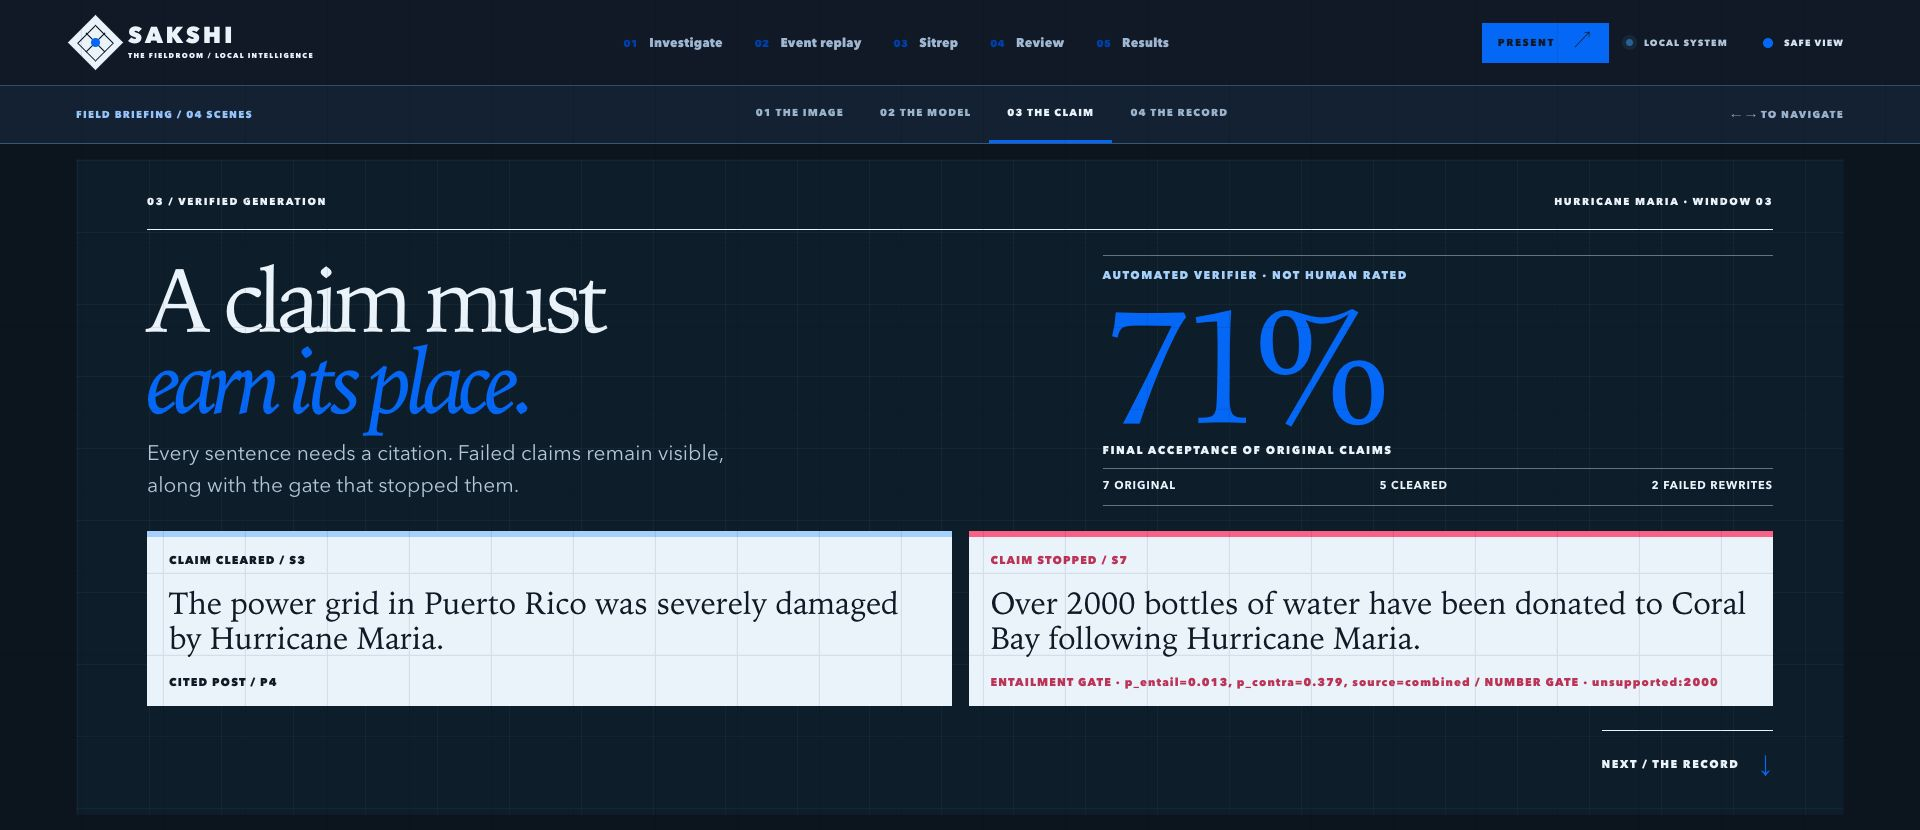
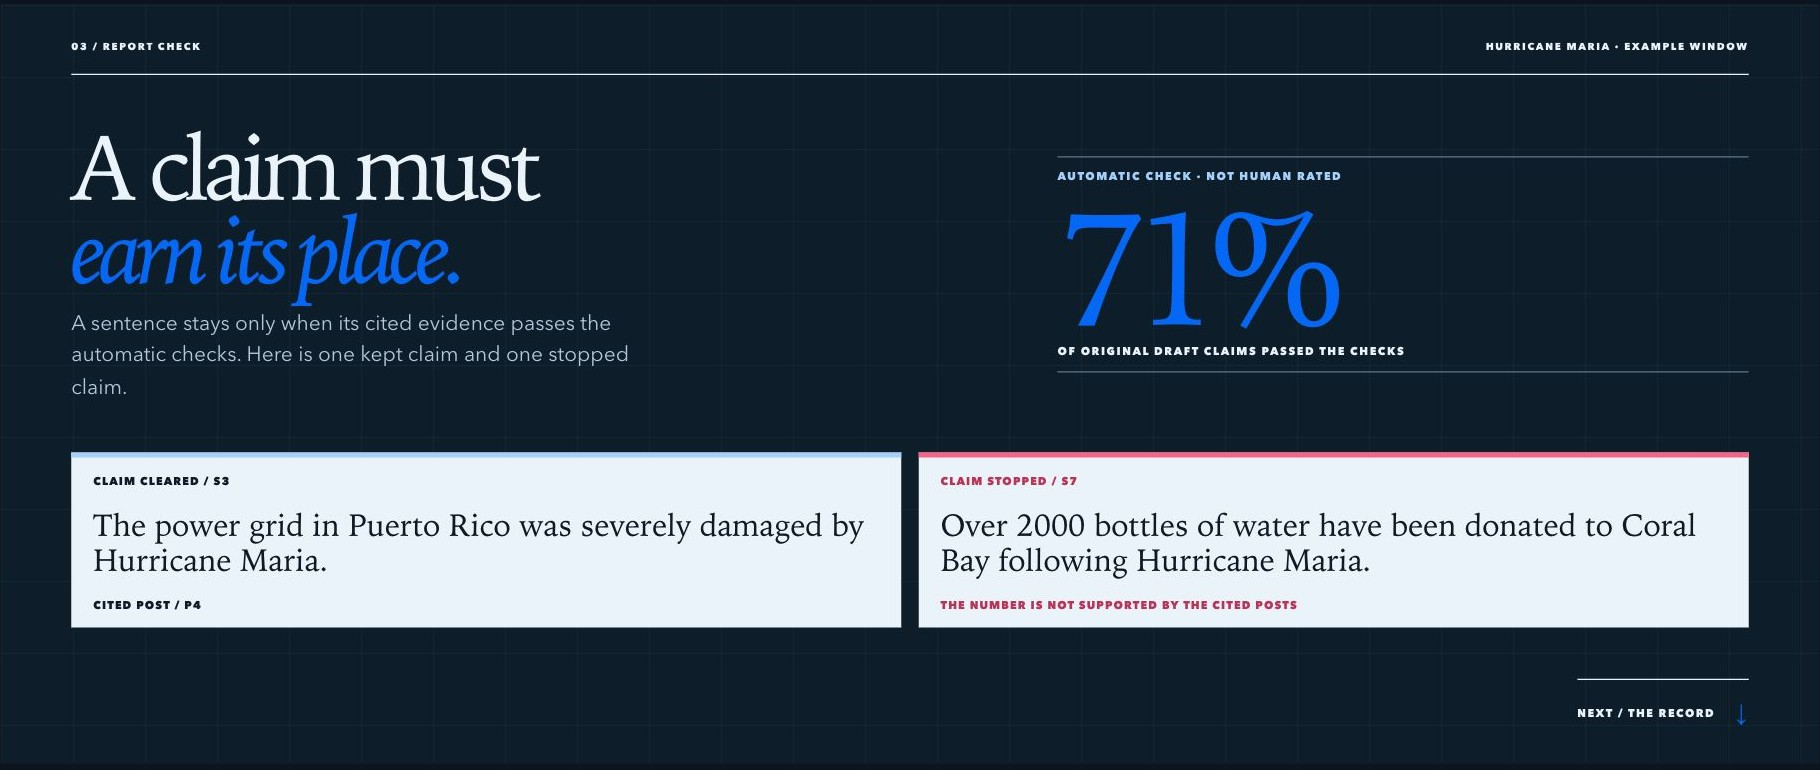
Simplify minor project demo flow

diff --git a/src/sakshi/app/web/app.js b/src/sakshi/app/web/app.js
@@ -142,17 +142,18 @@ function changePage(page) {
 
 function briefingModelHtml(result) {
   if (!result)
-    return '<div class="briefing-model-await"><span>LIVE INFERENCE / LOCAL CPU</span><strong>Four decisions await the case.</strong><p>Run the pinned Maria post through the trained model. Its decisions and any abstention appear here.</p></div>';
+    return '<div class="briefing-model-await"><span>READY TO RUN / ON THIS LAPTOP</span><strong>One post. Four decisions.</strong><p>Run the prepared case to see what the model returns and whether it asks for human review.</p></div>';
   const decisions = result.heads.map((head, i) => {
     const label = head.status === "predicted" ? head.label || "Undecided" :
-      head.status === "gated" ? "Gated" : "Not applicable";
+      head.status === "gated" ? "Skipped" : "Not applicable";
     return '<div class="briefing-model-tile"><small>0' + (i + 1) + ' / ' + esc(head.name) +
       '</small><strong>' + esc(label) + '</strong><span>' +
-      (head.status === "predicted" ? pct(head.probability) + " CALIBRATED" : "NO SCORE") +
+      (head.status === "predicted" ? pct(head.probability) + " MODEL CONFIDENCE" :
+        head.status === "gated" ? "DEPENDS ON FIRST DECISION" : "NO SCORE") +
       '</span></div>';
   }).join("");
   return '<div class="briefing-model-status ' + (result.abstain ? "is-abstained" : "") +
-    '"><span>' + (result.abstain ? "ABSTAINED / HUMAN REVIEW" : "CLASSIFICATION RETURNED") +
+    '"><span>' + (result.abstain ? "MODEL ABSTAINED · HUMAN REVIEW" : "MODEL RESULT") +
     '</span><strong>' + esc(result.abstain ?
       reviewReason(result.abstain_reason) :
       result.model) +
@@ -169,9 +170,6 @@ function briefingHtml(caseData, sitrep) {
   const accepted = sentences.find((s) => s.accepted && s.id === "S3") || sentences.find((s) => s.accepted);
   const rejected = sentences.find((s) => !s.accepted && s.failed_gates?.some((g) => g.name === "number")) ||
     sentences.find((s) => !s.accepted);
-  const originalCount = sentences.filter((s) => Number(s.round) === 0).length;
-  const acceptedCount = sentences.filter((s) => s.accepted).length;
-  const failedRewrites = sentences.filter((s) => !s.accepted && Number(s.round) > 0).length;
   const metrics = state.bootstrap.headline_metrics || [];
   const metricBars = metrics.map((metric, i) => {
     const value = Number(metric.value);
@@ -196,29 +194,29 @@ function briefingHtml(caseData, sitrep) {
     '<div class="briefing-eyebrow"><span>CASE FILE / 01</span><span>SYSTEM FLAG · REVIEW PENDING</span></div>' +
     '<div><h1>One image.<br><em>Two events.</em></h1><p>The same flood photograph appears in a Maria post and an earlier indexed Irma record. The system flags reuse; a reviewer decides what the match means.</p></div>' +
     '<div class="briefing-cover-foot"><div><strong>07</strong><span>DAYS BETWEEN<br>INDEXED APPEARANCES</span></div><button type="button" data-briefing-step="1">FOLLOW THE EVIDENCE <b>↓</b></button></div></div>' +
-    '<div class="briefing-cover-visual"><div class="briefing-visual-top"><span>FROZEN REPLAY / FACE-BLURRED</span><span>PHASH DISTANCE ' +
-    (hasCase ? esc(caseData.phash_distance) : '—') + ' / 64</span></div>' + photos +
-    '<div class="briefing-visual-bottom">EARLIER INDEXED APPEARANCE ≠ VERIFIED ORIGIN</div></div></section>' +
-    '<section class="briefing-scene briefing-model" id="briefing-scene-1"><div class="briefing-section-head"><span>02 / LIVE MODEL</span><span>FOUR TASK HEADS · HUMAN REVIEW</span></div>' +
-    '<div class="briefing-model-layout"><div class="briefing-model-copy"><h2>What does<br>the model <em>know?</em></h2><p>A classifier can help triage a post while remaining uncertain. Run this exact case through the local model and inspect every head.</p>' +
+    '<div class="briefing-cover-visual"><div class="briefing-visual-top"><span>PREPARED CASE / FACE-BLURRED</span><span>EARLIER IMAGE MATCH FOUND</span></div>' + photos +
+    '<div class="briefing-visual-bottom">EARLIER MATCH FOUND · ORIGIN NEEDS REVIEW</div></div></section>' +
+    '<section class="briefing-scene briefing-model" id="briefing-scene-1"><div class="briefing-section-head"><span>02 / LIVE MODEL</span><span>FOUR DECISIONS · HUMAN REVIEW</span></div>' +
+    '<div class="briefing-model-layout"><div class="briefing-model-copy"><h2>What does<br>the model <em>see?</em></h2><p>Run this post once. The model returns four decisions and flags uncertain ones for a person to review.</p>' +
     '<button type="button" id="briefing-run" class="briefing-run" ' + (hasCase ? '' : 'disabled') + '>RUN THIS CASE LIVE <span>↗</span></button>' +
     '<small>THE FIRST RUN LOADS CACHED MODEL WEIGHTS.</small></div><div id="briefing-model-output">' +
     briefingModelHtml(state.briefingAnalysis) + '</div></div><button class="briefing-next" type="button" data-briefing-step="2">NEXT / THE CLAIM <span>↓</span></button></section>' +
-    '<section class="briefing-scene briefing-claim" id="briefing-scene-2"><div class="briefing-section-head"><span>03 / VERIFIED GENERATION</span><span>HURRICANE MARIA · WINDOW 03</span></div>' +
-    '<div class="briefing-claim-top"><div><h2>A claim must<br><em>earn its place.</em></h2><p>Every sentence needs a citation. Failed claims remain visible, along with the gate that stopped them.</p></div>' +
-    '<div class="briefing-verdict"><span>AUTOMATED VERIFIER · NOT HUMAN RATED</span><strong>' +
-    (sitrep?.available ? pct(sitrep.rates.final) : '—') + '</strong><small>FINAL ACCEPTANCE OF ORIGINAL CLAIMS</small><div><b>' +
-    originalCount + ' ORIGINAL</b><b>' + acceptedCount + ' CLEARED</b><b>' + failedRewrites + ' FAILED REWRITES</b></div></div></div>' +
+    '<section class="briefing-scene briefing-claim" id="briefing-scene-2"><div class="briefing-section-head"><span>03 / REPORT CHECK</span><span>HURRICANE MARIA · EXAMPLE WINDOW</span></div>' +
+    '<div class="briefing-claim-top"><div><h2>A claim must<br><em>earn its place.</em></h2><p>A sentence stays only when its cited evidence passes the automatic checks. Here is one kept claim and one stopped claim.</p></div>' +
+    '<div class="briefing-verdict"><span>AUTOMATIC CHECK · NOT HUMAN RATED</span><strong>' +
+    (sitrep?.available ? pct(sitrep.rates.final) : '—') + '</strong><small>OF ORIGINAL DRAFT CLAIMS PASSED THE CHECKS</small></div></div>' +
     '<div class="briefing-claim-pair"><article><span>CLAIM CLEARED / ' + esc(accepted?.id || '—') +
     '</span><p>' + esc(accepted?.text || 'No accepted claim in this window.') + '</p><small>CITED POST / ' +
     esc((accepted?.citations || []).join(', ') || 'NONE') + '</small></article><article class="stopped"><span>CLAIM STOPPED / ' +
     esc(rejected?.id || '—') + '</span><p>' + esc(rejected?.text || 'No rejected claim in this window.') +
-    '</p><small>' + esc((rejected?.failed_gates || []).map((g) => g.name.toUpperCase() + ' GATE · ' + g.detail).join(' / ') || 'VERIFICATION FAILED') +
+    '</p><small>' + esc(rejected?.failed_gates?.some((g) => g.name === 'number')
+      ? 'THE NUMBER IS NOT SUPPORTED BY THE CITED POSTS'
+      : 'THE AUTOMATIC CHECKS DID NOT SUPPORT THIS CLAIM') +
     '</small></article></div><button class="briefing-next" type="button" data-briefing-step="3">NEXT / THE RECORD <span>↓</span></button></section>' +
-    '<section class="briefing-scene briefing-record" id="briefing-scene-3"><div class="briefing-section-head"><span>04 / FROZEN EVALUATION</span><span>OFFICIAL TEST · THREE SEEDS</span></div>' +
-    '<div class="briefing-record-layout"><div><h2>The weak head<br>stays <em>visible.</em></h2><p>Mean macro-F1 across three frozen standard seeds. Each task has its own official test selector. Severity remains the hardest head.</p>' +
+    '<section class="briefing-scene briefing-record" id="briefing-scene-3"><div class="briefing-section-head"><span>04 / TEST RESULTS</span><span>OFFICIAL TEST · THREE RUNS</span></div>' +
+    '<div class="briefing-record-layout"><div><h2>Where it<br><em>struggles.</em></h2><p>The model performs differently across tasks. Damage severity is its weakest result on the official test sets.</p>' +
     '<a href="#results" class="briefing-record-link">OPEN THE FULL RESEARCH RECORD <span>↗</span></a></div><div class="briefing-scores">' + metricBars +
-    '<small>0.0 <span>MEAN MACRO-F1 / NOT A HUMAN STUDY</span> 1.0</small></div></div>' +
+    '<small>0.0 <span>OFFICIAL TEST SCORE · HIGHER IS BETTER</span> 1.0</small></div></div>' +
     '<div class="briefing-exit"><span>THE EVIDENCE IS OPEN TO INSPECTION.</span><div><a href="#classify">INVESTIGATE ↗</a><a href="#replay">EVENT REPLAY ↗</a><a href="#sitrep">SITREP ↗</a><a href="#review">REVIEW ↗</a></div></div></section></div>';
 }
 
@@ -463,9 +461,9 @@ function classifyOutput(result) {
     title("What moved the decision", "XAI / ON DEMAND") +
     '<div class="notice xai-control"><div><span class="micro micro-orange">MODEL EXPLANATION</span>' +
     (result.image
-      ? '<h3>Four questions. One image.</h3><p>Reveal two decisions to compare where each class looked. Maps are computed only when requested.</p>'
-      : '<h3>Trace the words.</h3><p>Choose a decision to reveal signed word attribution for this text-only post.</p>') +
-    '</div><div class="xai-control-actions"><label for="explain-head">DECISION TO EXPLAIN</label><select id="explain-head" class="select">' +
+      ? '<h3>What influenced each answer?</h3><p>Choose one decision and show its evidence. Choose another to compare them.</p>'
+      : '<h3>Which words influenced this answer?</h3><p>Choose a decision to see which words supported or opposed it.</p>') +
+    '</div><div class="xai-control-actions"><label for="explain-head">WHICH DECISION?</label><select id="explain-head" class="select">' +
     result.heads
       .filter((h) => h.status === "predicted")
       .map(
@@ -473,7 +471,7 @@ function classifyOutput(result) {
           '<option value="' + esc(h.key) + '">' + esc(h.name) + "</option>",
       )
       .join("") +
-    '</select><button id="explain-button" class="button">REVEAL EVIDENCE →</button></div></div><div id="explain-output" aria-live="polite"></div>'
+    '</select><button id="explain-button" class="button">SHOW EVIDENCE →</button></div></div><div id="explain-output" aria-live="polite"></div>'
   );
 }
 
@@ -485,8 +483,8 @@ function explanationOutput(result, headKey, classification) {
   const hasImage = Boolean(result.heatmap);
   const imageHead = headKey === "severity" || headKey === "disaster_type";
   const wordNote = imageHead
-    ? "This task uses the image branch, so no word attribution is computed."
-    : "This input contains no text to attribute.";
+    ? "This decision uses the photo, so there are no word highlights."
+    : "This post has no text, so there are no word highlights.";
   const max = Math.max(0.001, ...result.words.map((word) => Math.abs(word.score)));
   const words = result.words.map((word) => {
     const strength = Math.min(0.46, 0.08 + 0.38 * Math.abs(word.score) / max).toFixed(3);
@@ -494,44 +492,48 @@ function explanationOutput(result, headKey, classification) {
     return '<span class="xai-word" style="background:rgba(' + color + ',' + strength +
       ')" title="Signed attribution: ' + esc(Number(word.score).toFixed(3)) + '">' +
       esc(word.text) + '</span>';
-  }).join("");
-  const header = '<div class="xai-result-head"><span>DECISION UNDER INSPECTION / ' + esc(name) +
+  }).join(" ");
+  const header = '<div class="xai-result-head"><span>SELECTED DECISION / ' + esc(name) +
     '</span><strong>' + esc(head?.label || "No label returned") +
     '</strong><div class="xai-verdict"><b>' + pct(head?.probability) +
-    '</b><small>CALIBRATED CONFIDENCE</small><p>Attributions relate to this predicted class. They do not verify the post.</p></div></div>';
-  const wordPanel = '<div class="xai-words"><div class="xai-panel-label">INTEGRATED GRADIENTS / WORD ATTRIBUTION</div>' +
-    '<div class="xai-word-flow">' + words + '</div><div class="xai-legend"><span><i></i> TOWARD THE LABEL</span>' +
-    '<span><i></i> AWAY FROM THE LABEL</span><span>' + esc(result.steps || "—") + ' STEPS</span></div></div>';
+    '</b><small>MODEL CONFIDENCE</small><p>This explains the model’s answer. It does not prove the post is true.</p></div></div>';
+  const wordPanel = '<div class="xai-words"><div class="xai-panel-label">WORDS THAT INFLUENCED THIS ANSWER</div>' +
+    '<div class="xai-word-flow">' + words + '</div><div class="xai-legend"><span><i></i> SUPPORTS THE ANSWER</span>' +
+    '<span><i></i> OPPOSES THE ANSWER</span></div></div>';
   const original = classification.image ? '<figure><img src="' + esc(classification.image) +
-    '" alt="Original analyzed image"><figcaption>01 / ANALYZED IMAGE</figcaption></figure>' : "";
+    '" alt="Original analyzed image"><figcaption>01 / ORIGINAL PHOTO</figcaption></figure>' : "";
   const overlay = '<figure><img src="' + esc(result.heatmap) +
-    '" alt="Grad-CAM heatmap over the analyzed image"><figcaption>02 / GRAD-CAM FOCUS</figcaption></figure>';
-  const visualPanel = '<div class="xai-visual"><div class="xai-panel-label">GRAD-CAM / IMAGE FOCUS</div>' +
+    '" alt="Grad-CAM heatmap over the analyzed image"><figcaption>02 / HIGHLIGHTED VIEW</figcaption></figure>';
+  const visualPanel = '<div class="xai-visual"><div class="xai-panel-label">WHERE THE MODEL FOCUSED</div>' +
     '<div class="xai-image-pair">' + original + overlay + '</div>' +
-    '<p>Warmer areas carry more Grad-CAM weight within this map. It covers the model’s center crop.</p></div>';
+    '<p>Warm colors mark regions with stronger model attribution for this answer.</p></div>';
+  const method = '<details class="xai-method"><summary>How this evidence was calculated</summary><p>' +
+    (hasWords ? 'Word colors are signed Integrated Gradients for the predicted class (' + esc(result.steps || "—") + ' steps). ' : '') +
+    (hasImage ? 'The image overlay is Grad-CAM from the model’s 14×14 visual patch grid, projected onto its center crop. ' : '') +
+    'The percentage is calibrated model confidence. These explanations do not establish factual accuracy.</p></details>';
   if (hasWords && hasImage)
     return '<section class="xai-result">' + header + '<div class="xai-both">' + wordPanel +
-      visualPanel + '</div></section>';
+      visualPanel + '</div>' + method + '</section>';
   if (hasImage)
     return '<section class="xai-result">' + header + '<p class="xai-scope">' + esc(wordNote) +
-      '</p>' + visualPanel + '</section>';
+      '</p>' + visualPanel + method + '</section>';
   if (hasWords)
-    return '<section class="xai-result">' + header + wordPanel + '</section>';
+    return '<section class="xai-result">' + header + wordPanel + method + '</section>';
   return '<section class="xai-result">' + header + '<p class="xai-scope">No attribution is available for this decision.</p></section>';
 }
 
 function explanationComparison(explanations, selectedHead, classification) {
   const revealed = classification.heads.filter((head) => explanations[head.key]?.heatmap);
   if (revealed.length < 2) return "";
-  return '<section class="xai-comparison"><div class="xai-comparison-head"><div><span class="micro micro-orange">SAME POST / SEPARATE CLASS TARGETS</span>' +
-    '<h3>Compare the focus maps.</h3></div><p>Each map is normalized separately. Compare where it lights up, not color intensity across cards.</p></div>' +
+  return '<section class="xai-comparison"><div class="xai-comparison-head"><div><span class="micro micro-orange">ONE PHOTO / DIFFERENT DECISIONS</span>' +
+    '<h3>Same photo. Different focus.</h3></div><p>Compare the highlighted places. Some overlap is expected; color brightness is relative within each map.</p></div>' +
     '<div class="xai-comparison-grid">' + revealed.map((head) =>
       '<button type="button" class="xai-comparison-card' + (head.key === selectedHead ? ' active' : '') +
       '" data-xai-head="' + esc(head.key) + '" aria-label="View ' + esc(head.name) + ' explanation">' +
       '<span class="xai-comparison-meta"><span>' + esc(head.name) + '</span><b>' + pct(head.probability) + '</b></span>' +
       '<strong>' + esc(head.label || "No label returned") + '</strong><img src="' +
       esc(explanations[head.key].heatmap) + '" alt="Grad-CAM for ' + esc(head.name) + '">' +
-      '<small>VIEW THIS DECISION ↗</small></button>').join("") + '</div></section>';
+      '<small>OPEN THIS ANSWER ↗</small></button>').join("") + '</div></section>';
 }
 
 function bindClassify() {
@@ -612,7 +614,7 @@ function bindExplanation() {
     output.innerHTML = explanationComparison(state.explanations, head, state.classify) + (state.explanations[head]
       ? explanationOutput(state.explanations[head], head, state.classify)
       : "");
-    button.textContent = state.explanations[head] ? "EVIDENCE REVEALED ✓" : "REVEAL EVIDENCE →";
+    button.textContent = state.explanations[head] ? "EVIDENCE SHOWN ✓" : "SHOW EVIDENCE →";
   };
   selector.addEventListener("change", render);
   output.addEventListener("click", (event) => {
@@ -628,7 +630,7 @@ function bindExplanation() {
       return;
     }
     button.disabled = true;
-    button.textContent = "TRACING MODEL EVIDENCE…";
+    button.textContent = "READING MODEL EVIDENCE…";
     try {
       const token = state.classify.token;
       const explanation = await post("/api/explain", {
@@ -643,7 +645,7 @@ function bindExplanation() {
       notify(error.message);
     } finally {
       button.disabled = false;
-      button.textContent = state.explanations[selector.value] ? "EVIDENCE REVEALED ✓" : "REVEAL EVIDENCE →";
+      button.textContent = state.explanations[selector.value] ? "EVIDENCE SHOWN ✓" : "SHOW EVIDENCE →";
     }
   });
   render();

diff --git a/src/sakshi/app/web/app.css b/src/sakshi/app/web/app.css
@@ -1042,8 +1042,7 @@ main {
 .xai-panel-label,
 .xai-result-head > span,
 .xai-image-pair figcaption,
-.xai-legend,
-.xai-scope {
+.xai-legend {
   font-size: 10px;
   font-weight: 900;
   letter-spacing: .13em;
@@ -1051,6 +1050,10 @@ main {
 }
 .xai-control-actions .button {
   width: 100%;
+}
+.xai-control p {
+  font-size: 15px;
+  line-height: 1.45;
 }
 .xai-result {
   margin: 25px 0 40px;
@@ -1111,7 +1114,8 @@ main {
   border-left: 3px solid var(--orange);
   padding: 4px 0 4px 15px;
   margin: 0 0 25px;
-  line-height: 1.6;
+  font-size: 15px;
+  line-height: 1.45;
 }
 .xai-panel-label {
   color: var(--mint);
@@ -1141,6 +1145,24 @@ main {
 }
 .xai-visual > p {
   margin-top: 18px;
+}
+.xai-method {
+  margin-top: 27px;
+  padding-top: 18px;
+  border-top: 1px solid #b8c6da88;
+}
+.xai-method summary {
+  color: var(--mint);
+  cursor: pointer;
+  font-size: 13px;
+  font-weight: 700;
+}
+.xai-method p {
+  max-width: 800px;
+  margin: 14px 0 0;
+  color: #bac9dc;
+  font-size: 13px;
+  line-height: 1.6;
 }
 .xai-words {
   margin-bottom: 28px;
@@ -1206,7 +1228,7 @@ main {
   max-width: 420px;
   margin: 0;
   color: var(--mute);
-  font-size: 13px;
+  font-size: 15px;
   line-height: 1.45;
 }
 .xai-comparison-grid {
@@ -1261,7 +1283,7 @@ main {
   display: block;
   width: 100%;
   padding: 11px 15px;
-  font-size: 9px;
+  font-size: 11px;
   font-weight: 900;
   letter-spacing: .12em;
 }
